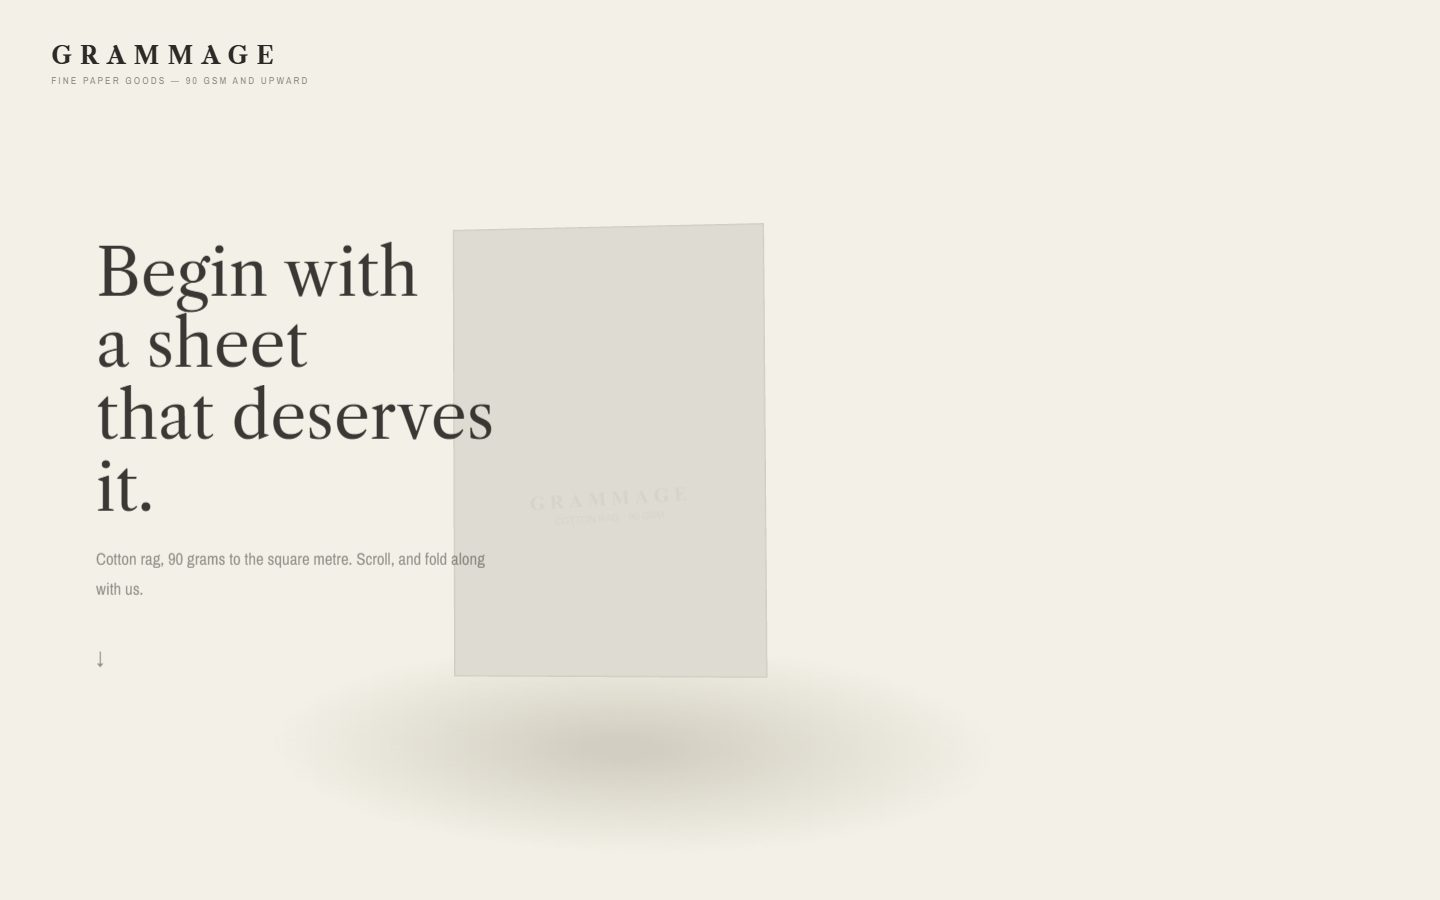
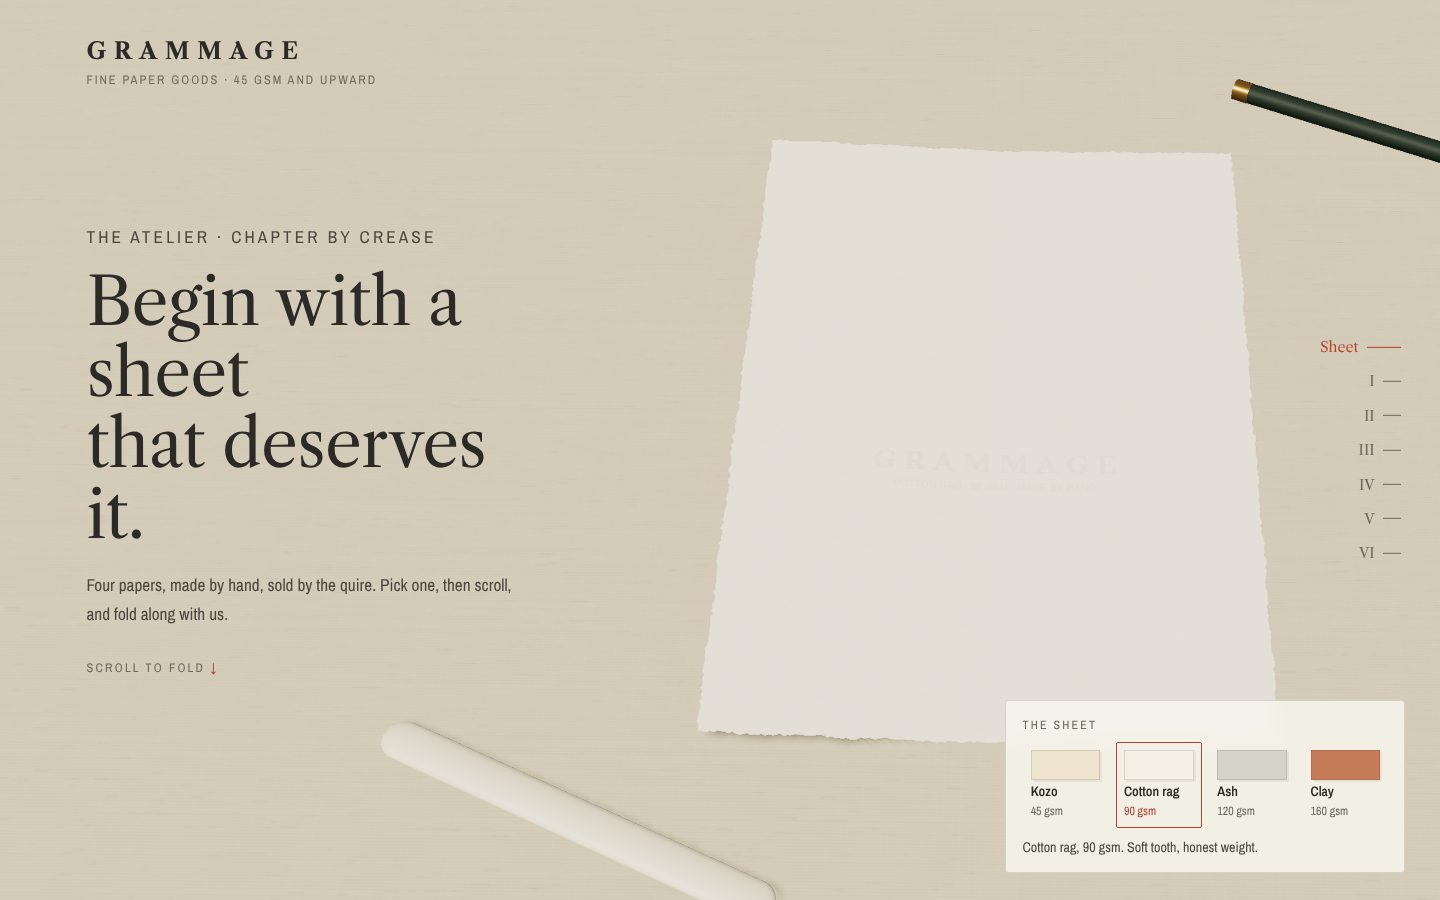
revamp: build 22-grammage-paper [Claude]
Claude-Session: https://claude.ai/code/session_012iovtvc8iaRpy5Xek8X4zF

diff --git a/sites/22-grammage-paper/bench.js b/sites/22-grammage-paper/bench.js
@@ -52,7 +52,7 @@ renderer.outputColorSpace = THREE.SRGBColorSpace;
 renderer.shadowMap.enabled = true;
 renderer.shadowMap.type = THREE.PCFSoftShadowMap;
 
-const BG = 0xf1ede3;
+const BG = 0xddd5c4;
 const scene = new THREE.Scene();
 scene.background = new THREE.Color(BG);
 scene.fog = new THREE.Fog(BG, 9, 30);
@@ -400,6 +400,7 @@ const paperMat = new THREE.MeshStandardMaterial({
   roughness: 0.9,
   side: THREE.DoubleSide,
   alphaTest: 0.5,
+  emissiveIntensity: 0.16,      // light through the fibres: paper reads brighter than the room
 });
 const sheet = new THREE.Mesh(sheetGeo, paperMat);
 sheet.castShadow = true;
@@ -502,6 +503,8 @@ function poseAt(s, t) {
   const prog = new Array(FOLDS.length).fill(0);
   const u1 = win(stepped, 1);
   angles[0] = u1 < 1 ? Math.sin(PI * ease(u1)) * PI * 0.985 + SPINE_REST * ease(u1) : SPINE_REST;
+  // on the opening page the left half breathes, as if a hand were about to take it
+  if (!reduceMotion && u1 === 0) angles[0] = (0.5 - 0.5 * Math.cos(t * 1.1)) * 7 * DEG * clamp(1 - s * 1.5, 0, 1);
   const u2 = ease(win(stepped, 2));
   angles[1] = angles[2] = u2 * PI;
   prog[1] = prog[2] = u2;
@@ -527,7 +530,9 @@ function poseAt(s, t) {
 /* ---------- camera framing (lens shift keeps the subject clear of the copy) ---------- */
 const CAM = {
   desk: { pos: new THREE.Vector3(0.05, 4.1, 3.15), look: new THREE.Vector3(0.05, 0, -0.1) },
-  air: { pos: new THREE.Vector3(3.9, 2.35, 4.6), look: new THREE.Vector3(0.1, 1.0, -0.15) },
+  air: { pos: new THREE.Vector3(5.7, 1.95, 2.9), look: new THREE.Vector3(0.1, 1.12, -0.65) },
+  // portrait: look along the dart's length so it fits a narrow screen
+  airTall: { pos: new THREE.Vector3(2.0, 2.4, 4.2), look: new THREE.Vector3(-0.3, 1.1, -0.8) },
   flight: { pos: new THREE.Vector3(3.6, 3.4, 5.2), look: new THREE.Vector3(0.4, 0.3, -4.4) },
 };
 const camPos = new THREE.Vector3(), camLook = new THREE.Vector3();
@@ -572,6 +577,7 @@ function setPaper(k) {
   sheet.customDepthMaterial.needsUpdate = true;
   old.dispose();
   document.querySelectorAll('.swatch').forEach((b) => b.setAttribute('aria-pressed', String(b.dataset.paper === k)));
+  paperMat.emissive.set(p.base).convertSRGBToLinear();
   ui.note.textContent = p.note;
   ui.sheetName.textContent = `${p.name} · ${p.gsm} gsm`;
   ui.dist.textContent = p.dist.toFixed(1);
@@ -657,9 +663,11 @@ function frame() {
 
   // camera between bench, hand and flight
   const air = lift, far = ease(clamp(fly * 1.4, 0, 1));
-  camPos.copy(CAM.desk.pos).lerp(CAM.air.pos, air).lerp(CAM.flight.pos, far);
-  camLook.copy(CAM.desk.look).lerp(CAM.air.look, air).lerp(CAM.flight.look, far);
-  if (small()) camPos.add(tmpV.set(0, 0.9, 1.6).multiplyScalar(1 - far * 0.5));
+  const A = small() ? CAM.airTall : CAM.air;
+  camPos.copy(CAM.desk.pos).lerp(A.pos, air).lerp(CAM.flight.pos, far);
+  camLook.copy(CAM.desk.look).lerp(A.look, air).lerp(CAM.flight.look, far);
+  // portrait screens are narrow: stand further back along the same line of sight
+  if (small()) camPos.sub(camLook).multiplyScalar(lerp(1.45, 1.25, far)).add(camLook);
   if (!reduceMotion) {
     pointer.sx += (pointer.x - pointer.sx) * 0.05;
     pointer.sy += (pointer.y - pointer.sy) * 0.05;
@@ -671,6 +679,7 @@ function frame() {
   key.target.position.copy(camLook).setY(0);
   // light from the bench's left while it lies flat; from the camera's side once it's lifted
   key.position.copy(key.target.position).add(tmpV.set(lerp(-3.2, 3.4, air), lerp(6.5, 5.6, air), lerp(3.4, 2.6, air)));
+  key.intensity = lerp(2.5, 3.3, air * (1 - far));
   // chapters fade near the top and bottom so they never pile up under the masthead
   for (const c of cards) {
     const r = c.getBoundingClientRect();

diff --git a/sites/22-grammage-paper/index.html b/sites/22-grammage-paper/index.html
@@ -5,7 +5,7 @@
 <meta name="viewport" content="width=device-width, initial-scale=1.0">
 <title>GRAMMAGE — Fine Paper Goods</title>
 <meta name="description" content="Grammage — a fine paper atelier. Choose a sheet, fold it into a dart crease by crease as you scroll, then fly it down the bench.">
-<meta name="theme-color" content="#f1ede3">
+<meta name="theme-color" content="#ddd5c4">
 <link rel="preconnect" href="https://fonts.googleapis.com">
 <link rel="preconnect" href="https://fonts.gstatic.com" crossorigin>
 <link href="https://fonts.googleapis.com/css2?family=Libre+Caslon+Text:ital,wght@0,400;0,700;1,400&family=Archivo+Narrow:wght@400;500;600&display=swap" rel="stylesheet">

diff --git a/sites/22-grammage-paper/style.css b/sites/22-grammage-paper/style.css
@@ -1,5 +1,5 @@
 :root {
-  --deckle: #f1ede3;
+  --deckle: #ddd5c4;
   --graphite: #2b2a26;
   --graphite-2: #4b473f;
   --graphite-3: #6e695e;

diff --git a/revamp/notes/22-grammage-paper.md b/revamp/notes/22-grammage-paper.md
@@ -2,8 +2,8 @@
 
 - **Vertical:** Paper Goods
 - **Batch:** 5 · **Builder:** Claude · **Reviewer:** Codex
-- **Stage:** building
-- **Next step:** Pass 1 rebuild (plan below).
+- **Stage:** awaiting review
+- **Next step:** Codex reviews in T17.
 
 ## Original audit
 _Written before changing any code. Compare against branch `origin/v1-original`._
@@ -27,15 +27,17 @@ _Written before changing any code. Compare against branch `origin/v1-original`._
 ## Pass log
 - Pass 1: Rebuilt the fold engine as exact rigid origami. The dart is folded once in memory, splitting convex facets along each hinge in folded space and carrying flat UVs: 16 facets, area checked equal to the sheet. Each crease is a real mesh edge. At runtime each fold rotates its member facets about a hinge re-derived from anchor points that travel with the sheet, so later folds land exactly on earlier ones, including on the spine's 8° remembered valley. Layers are kept apart by a compacted stacking order, applied only once a facet is laid on another (no seams on the open sheet). New linen bench with soft shadows, a bone folder and a pencil. The sheet folds flat on the bench, lifts upright for the wings, opens its V and flies down the bench to a marked landing, with the dashed trail. Four papers (colour, fibre, tooth, watermark) set distance and hang time. Lens-shift framing, fold rail, paper picker; cards fade near the edges.
 - Pass 2: Checked 1024x640, 360x640, 844x390 and no-WebGL. The picker covered the sheet on smaller desktops: the subject now frames above the picker's top edge, and the picker is compact below 1200 wide or 760 tall. Short phones get a tighter card and a higher lens shift, so the sheet keeps the top of the screen. On short landscape the masthead scrolls away instead of sitting on the flight card. A tiny loader now checks for WebGL before importing the bench; without it the chapters stand alone, with no errors.
-- Pass 3:
+- Pass 3: Swept every chapter at both widths. The lifted dart was seen from above as a flat grey triangle, so desktop now looks at it side-on and portrait looks along its length (so it fits a narrow screen). Portrait cameras stand further back on the same sightline. Paper read too close to the room, so the background is warmer and darker, the paper has a faint fibre glow (emissive 0.16 of its own colour), and the lift light is brighter. The opening sheet breathes a few degrees on the spine, as if about to be picked up. Props were moved clear of the copy.
 
 ## Verification
-- check-rules:
-- verify-sites:
-- Visual check, desktop 1440x900:
-- Visual check, mobile 390x844:
-- Reduced motion:
-- Thumbnail regenerated:
+- check-rules: OK (97 files, 26 projects; the new file is the WebGL loader).
+- verify-sites: `--only 22 --cdn-mirror` → ok, console 0, page 0, failed requests 0. The mirror served three@0.166.1 because this environment blocks cdn.jsdelivr.net.
+- Visual check, desktop 1440x900: done. Every chapter from flat sheet to landing, all four papers (Clay and Kozo also through the flight), plus 1024x640 and 844x390. No sideways scroll.
+- Visual check, mobile 390x844: done, every chapter, plus 360x640.
+- Reduced motion: done at both widths. Each chapter shows its finished fold, with no breathing or sway, and the flight chapter shows the landed dart with its full trail.
+- No WebGL: the loader skips the bench, and the chapters read on their own with no errors.
+- Fold engine check: crease pattern of 16 facets whose flat areas sum to the sheet (2.8000). Every crease is a mesh edge, with no tears or sawtooth at any fold.
+- Thumbnail regenerated: yes (`--wait 5000`), opening sheet, checked.
 
 ## Review
 _Reviewer: add findings as `- [ ] R1 (must|nice) …`, then follow the checklist in PROTOCOL §5._
